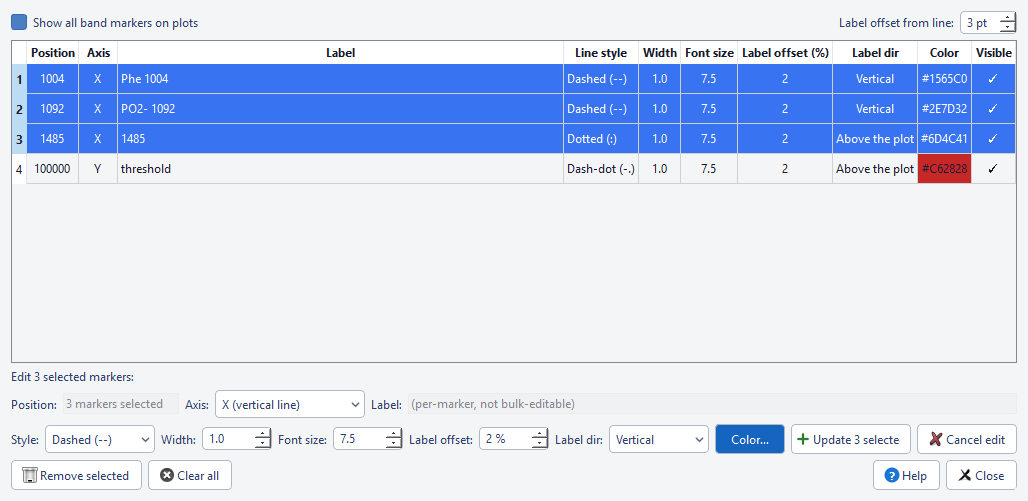
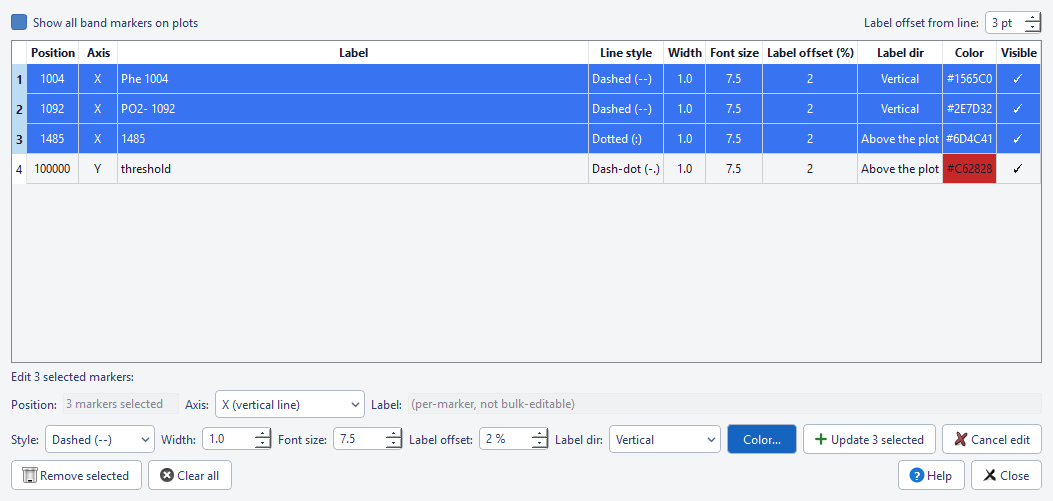
Band markers window: Label dir shows "Above the plot" in full; two help pictures again
The drop-down Label dir at the bottom of the Band Markers window had a
fixed width of 100 px: "Above the plot" was cut off to "Above the pl".
Now it is as wide as its longest choice. The two help pictures that
showed a cut-off text are made again: bulk_edit.png ("Update 3
selected" in full) and band_marker_manager.png ("Above the plot" in full).

Where it is in the code:
- src/views/dialogs/visualization_analysis/band_marker_dialog.py:
  _orientation_combo (AdjustToContents instead of a minimum width of 100)
- resources/images/help_screenshots/band_markers/bulk_edit.png,
  resources/images/help_screenshots/user_guide/band_marker_manager.png

diff --git a/src/views/dialogs/visualization_analysis/band_marker_dialog.py b/src/views/dialogs/visualization_analysis/band_marker_dialog.py
@@ -295,7 +295,7 @@ class BandMarkerDialog(QDialog):
             "<b>Above the plot</b>: across, above the plot (labels close<br>"
             "together go one line higher) - as a marker added with a click<br>"
             "on the plot (Cursor ticked) is made")
-        self._orientation_combo.setMinimumWidth(100)
+        self._orientation_combo.setSizeAdjustPolicy(QComboBox.AdjustToContents)
         style_row.addWidget(self._orientation_combo)
         self._color_btn = QPushButton('Color…')
         self._color_btn.setMinimumWidth(70)
